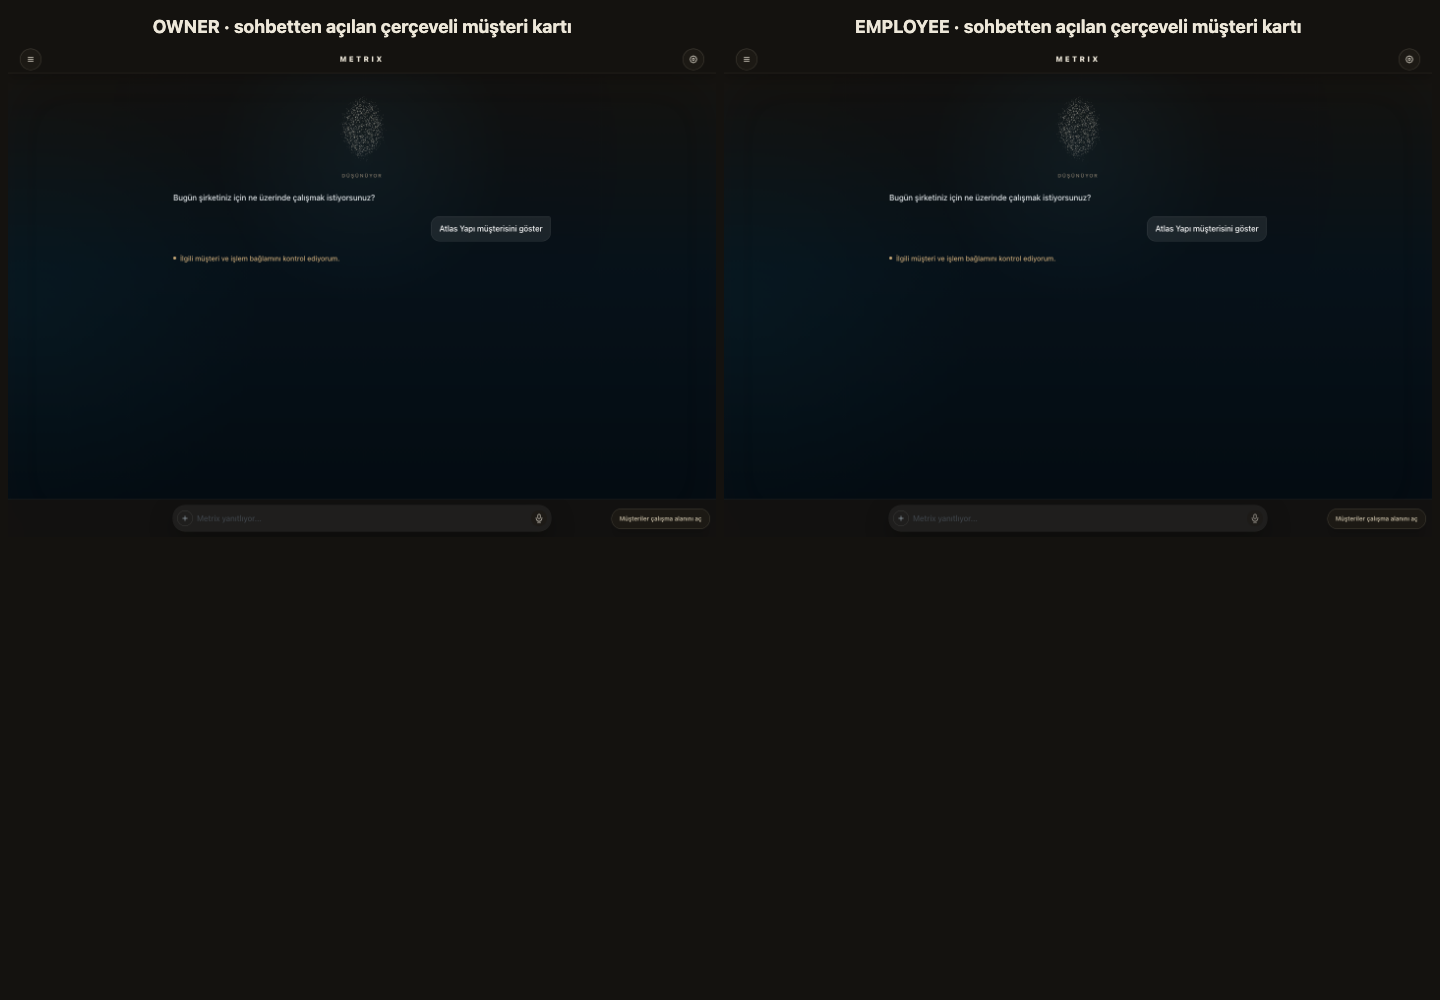
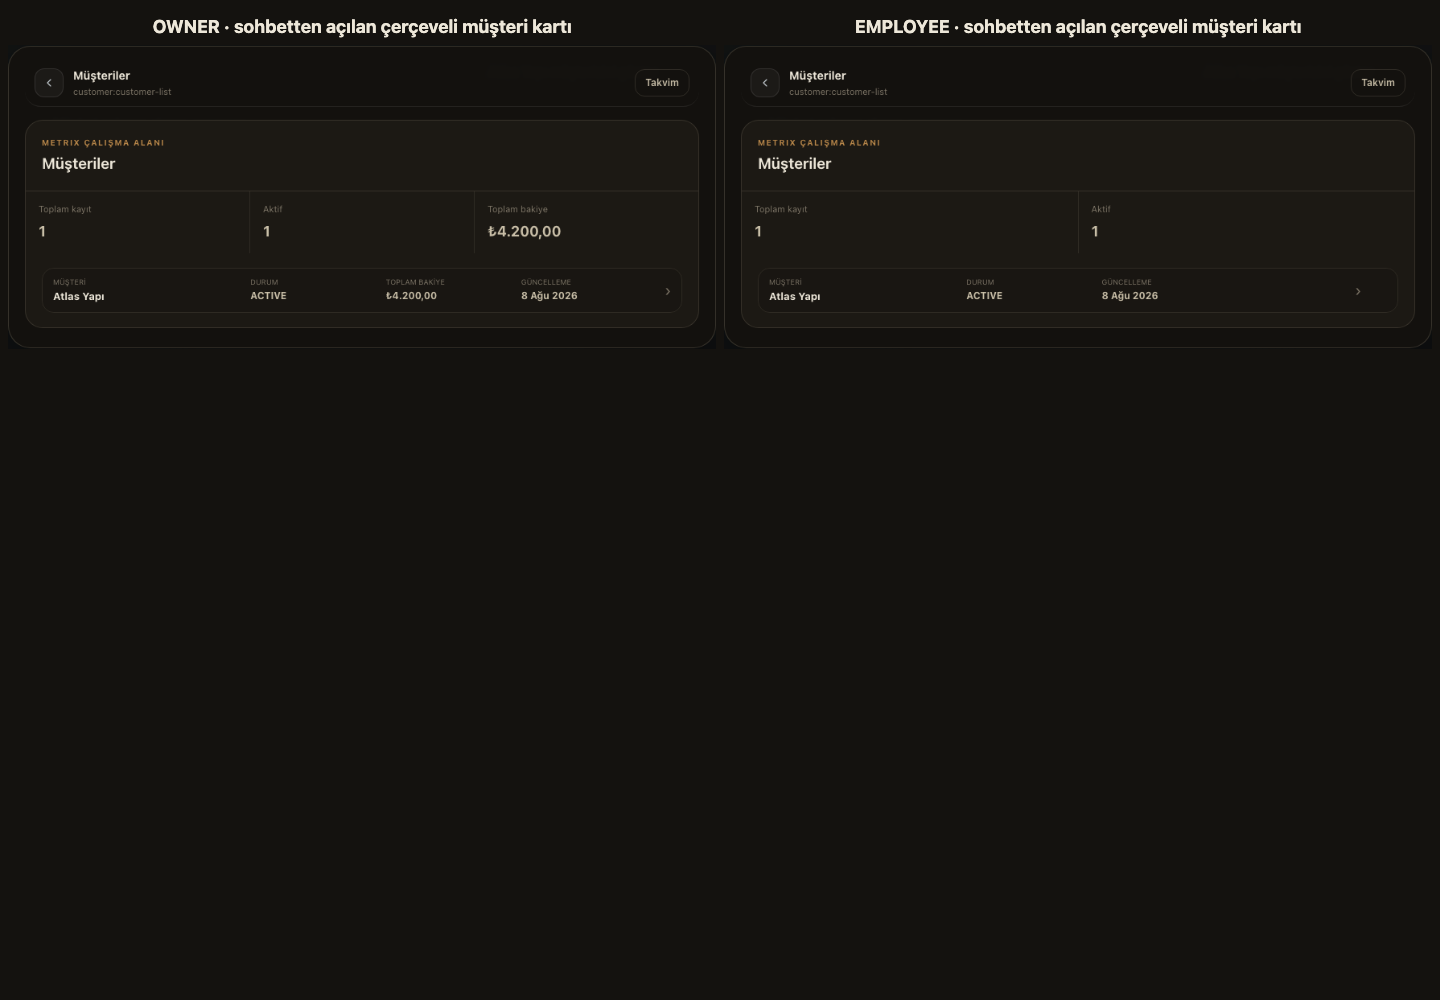
test: renew field visibility evidence

diff --git a/src/components/living-workspace/CanonicalDomainSurface.tsx b/src/components/living-workspace/CanonicalDomainSurface.tsx
@@ -22,9 +22,9 @@ export function CanonicalDomainSurface({ directive, onReady, onFailure }: { dire
 
   if (rows === null) return <div className="mx-auto max-w-5xl"><WorkspaceSurface title={directive.title} subtitle="Bilinen bilgiler hazırlanıyor…" identity={directive.entityId ? humanIdentity(directive.entityType, directive.entityId) : undefined}><div className="workspace-loading">{directive.title}</div></WorkspaceSurface></div>;
 
-  if (selected) return <div className="mx-auto max-w-5xl" data-canonical-domain={directive.domain} data-canonical-view="detail"><WorkspaceSurface title={primaryValue(selected, listColumns)} subtitle="Kayıt detayı" identity={String(selected.id ?? "").slice(0, 8)} actions={<button className="workspace-detail-back" onClick={() => setSelected(null)} type="button">← Listeye dön</button>} fields={visibleColumns.map((column) => ({ label: humanLabel(column), value: humanValue(selected[column], column, selected.currency) }))}/></div>;
+  if (selected) return <div className="mx-auto max-w-5xl" data-canonical-domain={directive.domain} data-canonical-view="detail" data-testid={directive.domain === "customer" ? "customer-workspace-card" : undefined}><WorkspaceSurface title={primaryValue(selected, listColumns)} subtitle="Kayıt detayı" identity={String(selected.id ?? "").slice(0, 8)} actions={<button className="workspace-detail-back" onClick={() => setSelected(null)} type="button">← Listeye dön</button>} fields={visibleColumns.map((column) => ({ label: humanLabel(column), value: humanValue(selected[column], column, selected.currency) }))}/></div>;
 
-  return <div className="mx-auto max-w-5xl" data-canonical-domain={directive.domain} data-canonical-view="list"><WorkspaceSurface title={humanTitle(directive.title)} subtitle={directive.subtitle} identity={directive.entityId ? humanIdentity(directive.entityType, directive.entityId) : undefined} kpis={kpis}><div className="workspace-record-list" role="list">{rows.length ? rows.slice(0, 50).map((row, index) => <div className="workspace-record-item" key={String(row.id ?? index)} role="listitem"><button aria-label={`${primaryValue(row, listColumns)} detayını aç`} className="workspace-record-row" onClick={() => setSelected(row)} type="button">{listColumns.map((column, columnIndex) => <span className={columnIndex === 0 ? "workspace-record-primary" : "workspace-record-cell"} key={column}><small>{humanLabel(column)}</small><strong>{humanValue(row[column], column, row.currency)}</strong></span>)}<span aria-hidden="true" className="workspace-record-chevron">›</span></button></div>) : <p className="workspace-empty">Bu görünümde kayıt bulunmuyor.</p>}</div></WorkspaceSurface></div>;
+  return <div className="mx-auto max-w-5xl" data-canonical-domain={directive.domain} data-canonical-view="list" data-testid={directive.domain === "customer" ? "customer-workspace-card" : undefined}><WorkspaceSurface title={humanTitle(directive.title)} subtitle={directive.subtitle} identity={directive.entityId ? humanIdentity(directive.entityType, directive.entityId) : undefined} kpis={kpis}><div className="workspace-record-list" role="list">{rows.length ? rows.slice(0, 50).map((row, index) => <div className="workspace-record-item" key={String(row.id ?? index)} role="listitem"><button aria-label={`${primaryValue(row, listColumns)} detayını aç`} className="workspace-record-row" onClick={() => setSelected(row)} type="button">{listColumns.map((column, columnIndex) => <span className={columnIndex === 0 ? "workspace-record-primary" : "workspace-record-cell"} key={column}><small>{humanLabel(column)}</small><strong>{humanValue(row[column], column, row.currency)}</strong></span>)}<span aria-hidden="true" className="workspace-record-chevron">›</span></button></div>) : <p className="workspace-empty">Bu görünümde kayıt bulunmuyor.</p>}</div></WorkspaceSurface></div>;
 }
 
 function metricValue(metric: string, rows: Row[]): WorkspaceField {

diff --git a/e2e/single-surface-shell.e2e.ts b/e2e/single-surface-shell.e2e.ts
@@ -37,7 +37,9 @@ for (const role of ["OWNER", "EMPLOYEE"] as const) {
       ? { id: "customer-1", displayName: "Atlas Yapı", status: "ACTIVE", balanceCents: "420000", currency: "TRY", tier: "STRATEGIC", healthScore: 91, updatedAt: "2026-08-08T10:00:00.000Z" }
       : { id: "customer-1", displayName: "Atlas Yapı", status: "ACTIVE", currency: "TRY", updatedAt: "2026-08-08T10:00:00.000Z" };
     await page.route("**/api/customers", (route) => route.fulfill({ json: { ok: true, data: { customers: [customer], count: 1 } } }));
+    let chatRequestCount = 0;
     await page.route("**/api/ai/chat", (route) => {
+      chatRequestCount += 1;
       const correlationId = `field-visibility-${role.toLowerCase()}`;
       const body = [
         JSON.stringify({ type: "navigation", command: { correlationId, source: "written", route: "/metrix/customers", expectedSurfaceAuthorityKey: "customers.list.page" } }),
@@ -47,14 +49,22 @@ for (const role of ["OWNER", "EMPLOYEE"] as const) {
       return route.fulfill({ status: 200, contentType: "application/x-ndjson", body });
     }, { times: 1 });
     await page.goto("/");
-    await page.getByPlaceholder("Metrix ile konuş...").fill("Atlas Yapı müşterisini göster");
+    const composer = page.getByPlaceholder("Metrix ile konuş...");
+    await composer.fill("Atlas Yapı müşterisini göster");
     await page.getByRole("button", { name: "Gönder" }).click();
-    const frame = page.locator('[data-workspace-frame="centered"]');
-    await expect(frame).toBeVisible();
-    await expect(frame.getByText("Atlas Yapı")).toBeVisible();
-    if (role === "OWNER") await expect(frame.getByText("Toplam bakiye", { exact: true }).first()).toBeVisible();
-    else await expect(frame.getByText("Toplam bakiye")).toHaveCount(0);
-    await page.screenshot({ path: `qa-screenshots/customer-field-visibility-${role.toLowerCase()}.png`, fullPage: true });
+    await expect(page.getByText("Müşteri çalışma alanını açıyorum.", { exact: true })).toBeVisible();
+    await expect(composer).toBeEnabled();
+    const reopen = page.getByRole("button", { name: "Müşteriler çalışma alanını aç" });
+    if (await reopen.isVisible()) await reopen.click();
+    const card = page.getByTestId("customer-workspace-card");
+    await expect(card).toBeVisible();
+    await expect(card.getByText("Atlas Yapı", { exact: true })).toBeVisible();
+    const workspace = page.getByRole("region", { name: "Çalışma Alanı" });
+    await expect(workspace).toHaveCSS("opacity", "1");
+    expect(chatRequestCount).toBe(1);
+    if (role === "OWNER") await expect(card.getByText("Toplam bakiye", { exact: true }).first()).toBeVisible();
+    else await expect(card.getByText("Toplam bakiye")).toHaveCount(0);
+    await page.locator('[data-workspace-frame="centered"]').screenshot({ path: `qa-screenshots/customer-field-visibility-${role.toLowerCase()}.png` });
   });
 }
 
